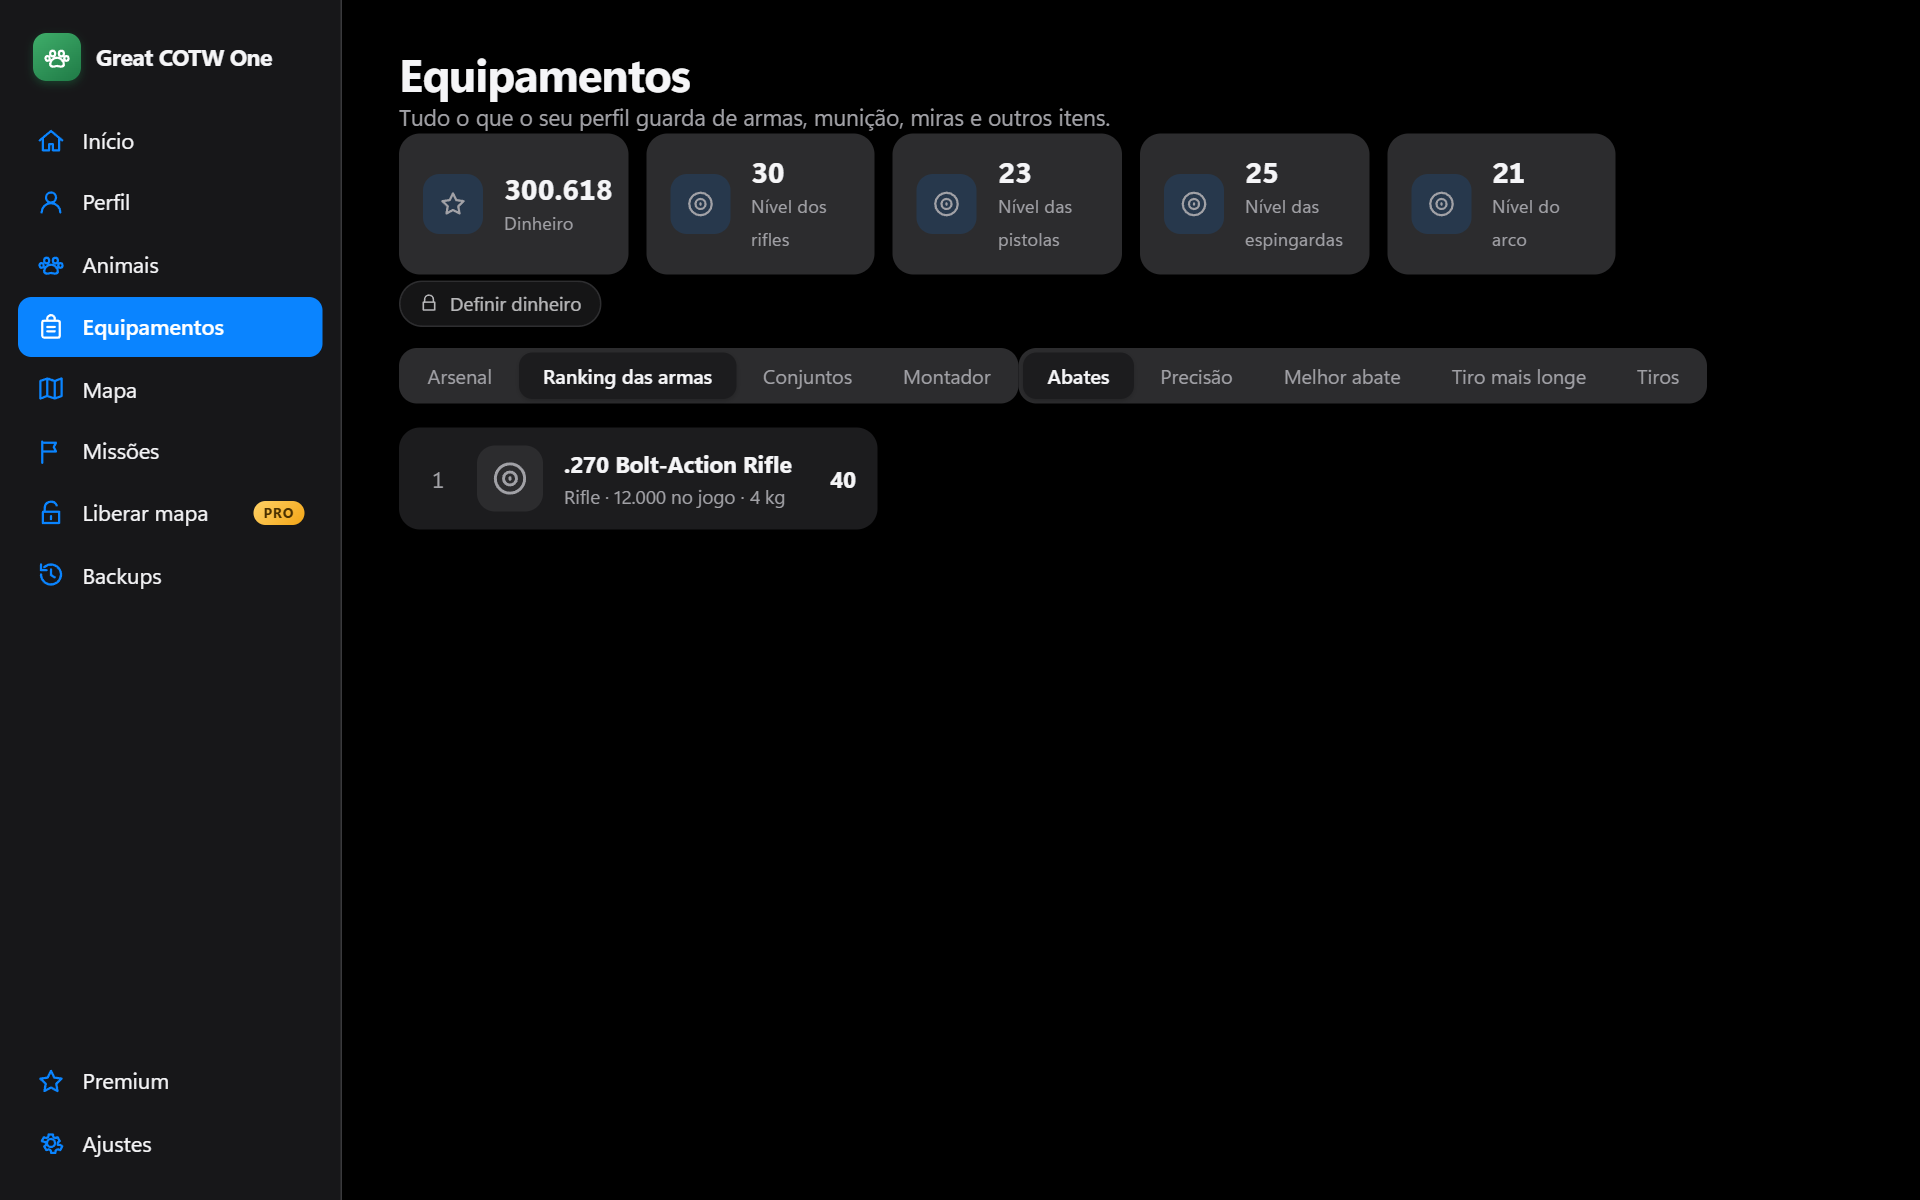
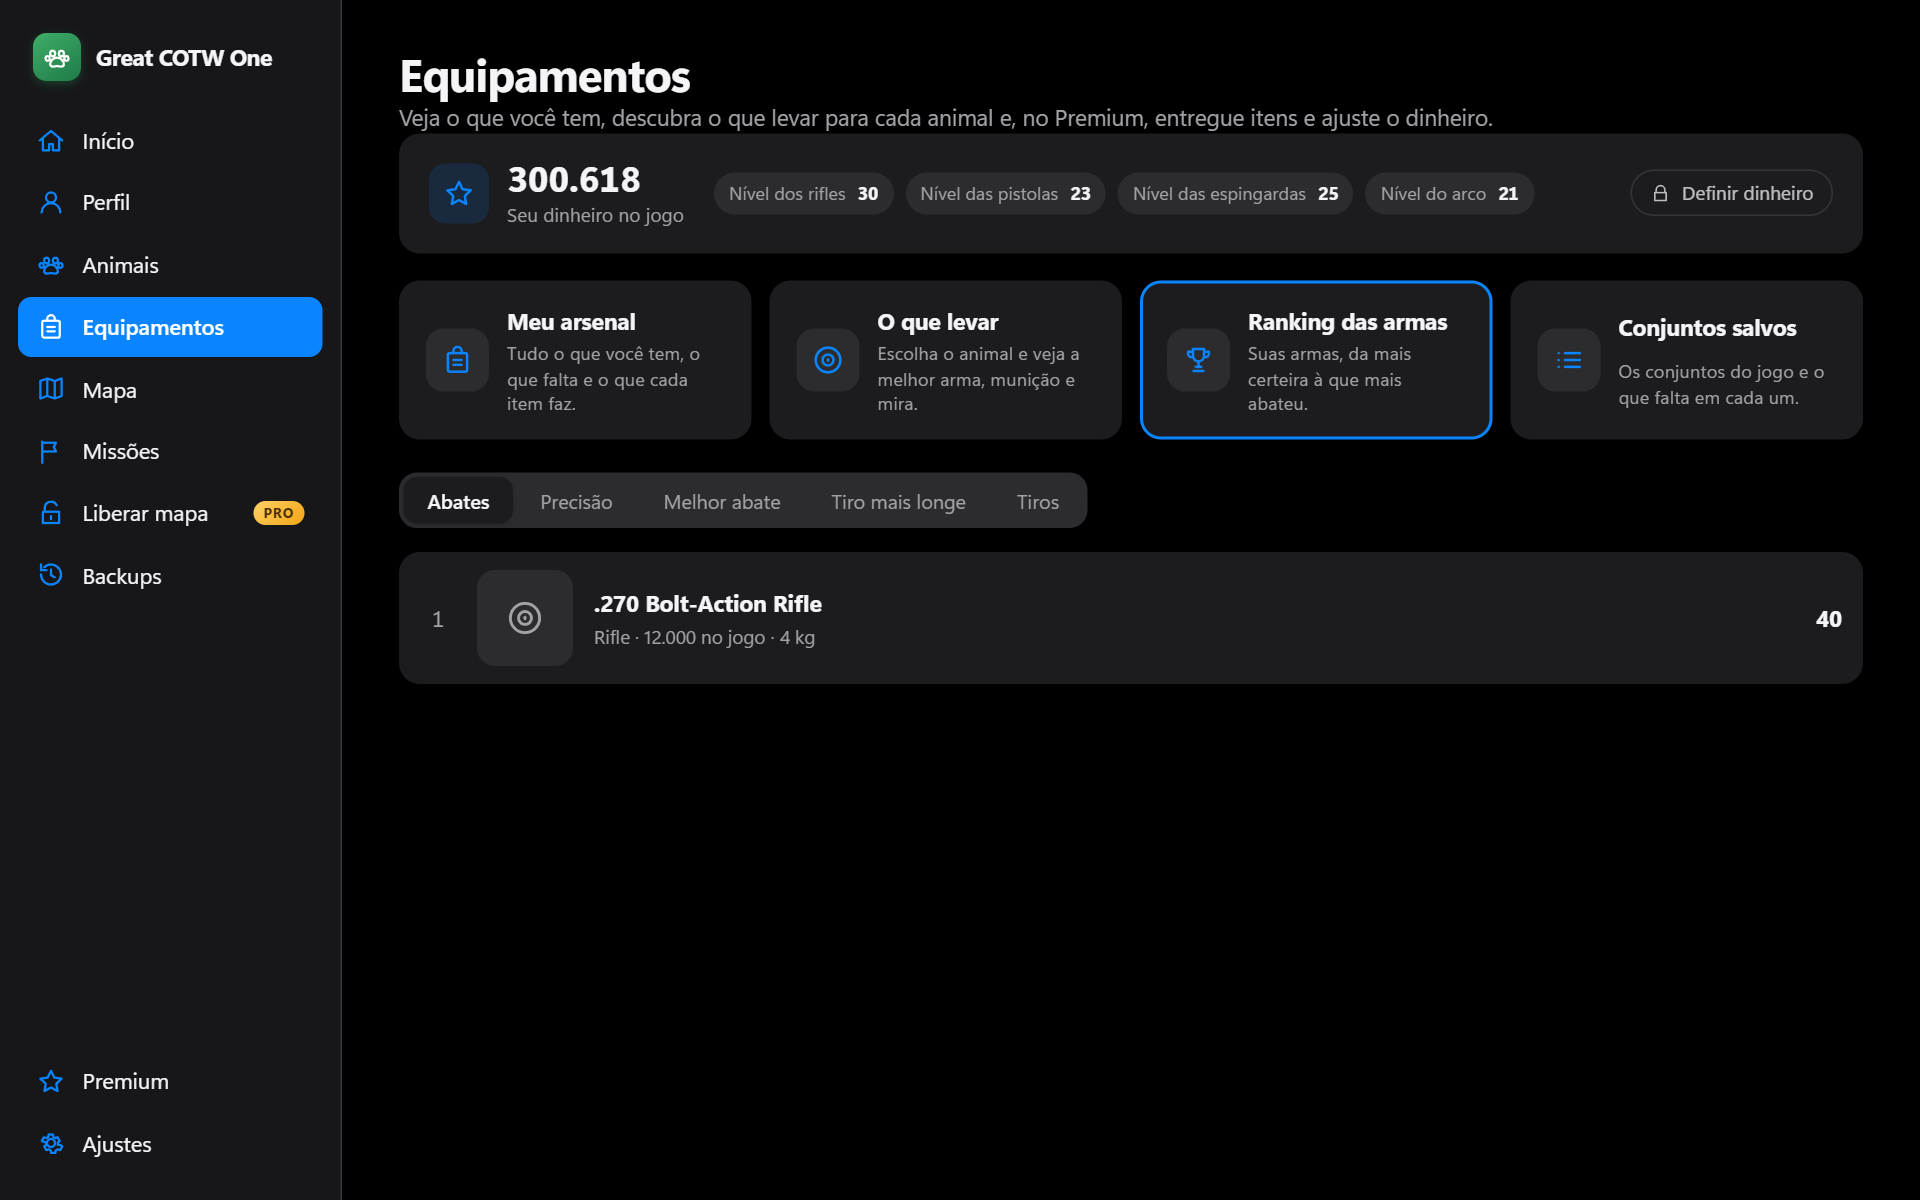
Prints novos: versão em inglês com os prints em inglês e a tela de equipamentos atual (o que levar e kit da reserva)

Changed region(s): [[0.1875, 0.0925, 0.9688, 0.5858]]

diff --git a/en/index.html b/en/index.html
@@ -46,20 +46,20 @@
     <a class="btn ghost" href="#features">See how it works</a>
   </div>
   <ul class="trust"><li><svg viewBox="0 0 20 20" aria-hidden="true"><path d="M4 10.5l4 4 8-9" fill="none" stroke="currentColor" stroke-width="2.4" stroke-linecap="round" stroke-linejoin="round"/></svg>Backup before every write</li><li><svg viewBox="0 0 20 20" aria-hidden="true"><path d="M4 10.5l4 4 8-9" fill="none" stroke="currentColor" stroke-width="2.4" stroke-linecap="round" stroke-linejoin="round"/></svg>Never writes with the game open</li><li><svg viewBox="0 0 20 20" aria-hidden="true"><path d="M4 10.5l4 4 8-9" fill="none" stroke="currentColor" stroke-width="2.4" stroke-linecap="round" stroke-linejoin="round"/></svg>No game files inside the app</li><li><svg viewBox="0 0 20 20" aria-hidden="true"><path d="M4 10.5l4 4 8-9" fill="none" stroke="currentColor" stroke-width="2.4" stroke-linecap="round" stroke-linejoin="round"/></svg>Works offline</li></ul>
-  <figure class="hero-shot"><img src="../assets/img/mapa.png" alt="Great COTW One zone map showing the route of an animal group" width="1920" height="1200" fetchpriority="high"></figure>
+  <figure class="hero-shot"><img src="../assets/img/en/mapa.png" alt="Great COTW One zone map showing the route of an animal group" width="1920" height="1200" fetchpriority="high"></figure>
 </section>
 
 <section id="features" class="block">
   <h2>Everything the game does not show you</h2>
   <p class="sub">The app reads your save and your game install and turns it all into simple screens.</p>
-  <article class="feat"><div class="feat-text"><h3>Zone map and group tracker</h3><p>See where animals eat, drink and rest, on the game&#x27;s own map. Pick a group and the app draws the day&#x27;s route with the time of every stop and where it should be right now.</p></div><figure class="shot"><img src="../assets/img/mapa.png" alt="Zone map with a group route" width="1920" height="1200" loading="lazy" decoding="async"></figure></article><article class="feat flip"><div class="feat-text"><h3>Animal wiki</h3><p>Every reserve and species, where each animal lives, how many you have in your save (males, females, Great Ones, top weight and score) and your best harvests.</p></div><figure class="shot"><img src="../assets/img/animais.png" alt="Animal wiki with a species sheet" width="1920" height="1200" loading="lazy" decoding="async"></figure></article><article class="feat"><div class="feat-text"><h3>Profile and achievements</h3><p>Level, kills, accuracy, longest shot, trophies and Steam achievements, with filter and search.</p></div><figure class="shot"><img src="../assets/img/perfil.png" alt="Hunter profile with achievements" width="1920" height="1200" loading="lazy" decoding="async"></figure></article><article class="feat flip"><div class="feat-text"><h3>Missions per reserve</h3><p>How much is left in each reserve, what is in progress and the mission list with the game&#x27;s own text.</p></div><figure class="shot"><img src="../assets/img/missoes.png" alt="Missions per reserve" width="1920" height="1200" loading="lazy" decoding="async"></figure></article>
+  <article class="feat"><div class="feat-text"><h3>Zone map and group tracker</h3><p>See where animals eat, drink and rest, on the game&#x27;s own map. Pick a group and the app draws the day&#x27;s route with the time of every stop and where it should be right now.</p></div><figure class="shot"><img src="../assets/img/en/mapa.png" alt="Zone map with a group route" width="1920" height="1200" loading="lazy" decoding="async"></figure></article><article class="feat flip"><div class="feat-text"><h3>Animal wiki</h3><p>Every reserve and species, where each animal lives, how many you have in your save (males, females, Great Ones, top weight and score) and your best harvests.</p></div><figure class="shot"><img src="../assets/img/en/animais.png" alt="Animal wiki with a species sheet" width="1920" height="1200" loading="lazy" decoding="async"></figure></article><article class="feat"><div class="feat-text"><h3>Profile and achievements</h3><p>Level, kills, accuracy, longest shot, trophies and Steam achievements, with filter and search.</p></div><figure class="shot"><img src="../assets/img/en/perfil.png" alt="Hunter profile with achievements" width="1920" height="1200" loading="lazy" decoding="async"></figure></article><article class="feat flip"><div class="feat-text"><h3>Missions per reserve</h3><p>How much is left in each reserve, what is in progress and the mission list with the game&#x27;s own text.</p></div><figure class="shot"><img src="../assets/img/en/missoes.png" alt="Missions per reserve" width="1920" height="1200" loading="lazy" decoding="async"></figure></article>
 </section>
 
 <section id="gear" class="block alt">
   <h2>The right gear for every hunt</h2>
   <p class="sub">The Equipment page shows everything your profile holds and answers every hunter's question: <em>what do I bring for this animal?</em></p>
   <ul class="points"><li><h3>Full arsenal</h3><p>Weapons, ammo, sights, lures and field gear with icons from your own game, what you own, what is missing and the level that unlocks each item.</p></li><li><h3>Weapon sheet and ranking</h3><p>Shots, hits, accuracy, kills, one-shot kills, record and longest shot for each weapon. Sort by kills, accuracy or record.</p></li><li><h3>Loadout builder per animal</h3><p>Pick the reserve and the animal. The app uses the animal&#x27;s hunting class and the classes each ammo recommends in the game itself, and suggests the best from your arsenal plus what is worth buying.</p></li><li><h3>Saved loadouts</h3><p>See your loadouts, which one is active and what items are missing in each.</p></li></ul>
-  <div class="shots"><figure class="shot"><img src="../assets/img/equipamentos-advisor.png" alt="Loadout builder for the moose with weapon, ammo and scope" width="1920" height="1200" loading="lazy" decoding="async"></figure><figure class="shot"><img src="../assets/img/equipamentos-ranking.png" alt="Personal weapon ranking" width="1920" height="1200" loading="lazy" decoding="async"></figure></div>
+  <div class="shots"><figure class="shot"><img src="../assets/img/en/equipamentos-advisor.png" alt="What to bring for the moose: weapon, ammo and scope" width="1920" height="1200" loading="lazy" decoding="async"></figure><figure class="shot"><img src="../assets/img/en/equipamentos-kit.png" alt="Whole-reserve kit with lures, extras and total weight" width="1920" height="1200" loading="lazy" decoding="async"></figure></div>
   <p class="note">Screens use sample data. In the app you see your own arsenal and your game&#x27;s icons.</p>
 </section>
 

diff --git a/index.html b/index.html
@@ -59,7 +59,7 @@
   <h2>Equipamento certo para cada caça</h2>
   <p class="sub">A página de Equipamentos mostra tudo o que o seu perfil guarda e responde a pergunta de todo caçador: <em>o que eu levo para esse animal?</em></p>
   <ul class="points"><li><h3>Arsenal completo</h3><p>Armas, munição, miras, iscas e equipamentos de campo com ícone do seu jogo, o que você tem, o que falta e o nível que libera cada item.</p></li><li><h3>Ficha e ranking das armas</h3><p>Tiros, acertos, precisão, abates, abates de um tiro, recorde e tiro mais longe de cada arma. Ordene por abates, precisão ou recorde.</p></li><li><h3>Montador por animal</h3><p>Escolha a reserva e o animal. O app usa a classe de caça do animal e as classes que cada munição recomenda no próprio jogo e sugere o melhor do seu arsenal, mais o que vale comprar.</p></li><li><h3>Conjuntos salvos</h3><p>Veja os seus loadouts, qual está ativo e quais itens faltam em cada um.</p></li></ul>
-  <div class="shots"><figure class="shot"><img src="assets/img/equipamentos-advisor.png" alt="Montador de equipamento para o alce, com arma, munição e mira" width="1920" height="1200" loading="lazy" decoding="async"></figure><figure class="shot"><img src="assets/img/equipamentos-ranking.png" alt="Ranking pessoal das armas" width="1920" height="1200" loading="lazy" decoding="async"></figure></div>
+  <div class="shots"><figure class="shot"><img src="assets/img/equipamentos-advisor.png" alt="O que levar para o alce: arma, munição e mira" width="1920" height="1200" loading="lazy" decoding="async"></figure><figure class="shot"><img src="assets/img/equipamentos-kit.png" alt="Kit para a reserva inteira com iscas, extras e peso total" width="1920" height="1200" loading="lazy" decoding="async"></figure></div>
   <p class="note">As telas usam dados de exemplo. No app você vê o seu arsenal e os ícones do seu jogo.</p>
 </section>
 

diff --git a/build.py b/build.py
@@ -56,7 +56,7 @@ T = {
             ("Montador por animal", "Escolha a reserva e o animal. O app usa a classe de caça do animal e as classes que cada munição recomenda no próprio jogo e sugere o melhor do seu arsenal, mais o que vale comprar."),
             ("Conjuntos salvos", "Veja os seus loadouts, qual está ativo e quais itens faltam em cada um."),
         ],
-        "eq_shots": [("equipamentos-advisor", "Montador de equipamento para o alce, com arma, munição e mira"), ("equipamentos-ranking", "Ranking pessoal das armas")],
+        "eq_shots": [("equipamentos-advisor", "O que levar para o alce: arma, munição e mira"), ("equipamentos-kit", "Kit para a reserva inteira com iscas, extras e peso total")],
         "eq_note": "As telas usam dados de exemplo. No app você vê o seu arsenal e os ícones do seu jogo.",
         "safe_h": "Seguro por design",
         "safe_sub": "Mexer em save dá medo. Por isso cada regra abaixo é testada e vale para tudo o que o app grava.",
@@ -134,7 +134,7 @@ T = {
             ("Loadout builder per animal", "Pick the reserve and the animal. The app uses the animal's hunting class and the classes each ammo recommends in the game itself, and suggests the best from your arsenal plus what is worth buying."),
             ("Saved loadouts", "See your loadouts, which one is active and what items are missing in each."),
         ],
-        "eq_shots": [("equipamentos-advisor", "Loadout builder for the moose with weapon, ammo and scope"), ("equipamentos-ranking", "Personal weapon ranking")],
+        "eq_shots": [("equipamentos-advisor", "What to bring for the moose: weapon, ammo and scope"), ("equipamentos-kit", "Whole-reserve kit with lures, extras and total weight")],
         "eq_note": "Screens use sample data. In the app you see your own arsenal and your game's icons.",
         "safe_h": "Safe by design",
         "safe_sub": "Touching a save is scary. So every rule below is tested and applies to everything the app writes.",
@@ -201,6 +201,7 @@ def img(base: str, name: str, alt: str, eager: bool = False, w: int = 1920, h: i
 def page(code: str) -> str:
     t = T[code]
     base = "" if code == "pt" else "../"
+    prefix = "" if code == "pt" else "en/"  # prints no idioma da página
     url = SITE + t["path"]
     other_url = SITE + ("/en/" if code == "pt" else "/")
     ids = [n[0][1:] for n in t["nav"]]
@@ -235,9 +236,9 @@ def page(code: str) -> str:
     feats = ""
     for i, (shot, title, text, alt) in enumerate(t["features"]):
         flip = " flip" if i % 2 else ""
-        feats += f'<article class="feat{flip}"><div class="feat-text"><h3>{e(title)}</h3><p>{e(text)}</p></div><figure class="shot">{img(base, shot, alt)}</figure></article>'
+        feats += f'<article class="feat{flip}"><div class="feat-text"><h3>{e(title)}</h3><p>{e(text)}</p></div><figure class="shot">{img(base, prefix + shot, alt)}</figure></article>'
     points = "".join(f"<li><h3>{e(a)}</h3><p>{e(b)}</p></li>" for a, b in t["eq_points"])
-    shots = "".join(f'<figure class="shot">{img(base, s, a)}</figure>' for s, a in t["eq_shots"])
+    shots = "".join(f'<figure class="shot">{img(base, prefix + s, a)}</figure>' for s, a in t["eq_shots"])
     safe = "".join(f"<li>{CHECK}<div><h3>{e(a)}</h3><p>{e(b)}</p></div></li>" for a, b in t["safe"])
     rows = "".join(
         f'<tr><th scope="row">{e(n)}</th><td>{CHECK if f else DASH}</td><td>{CHECK if p else DASH}</td></tr>' for n, f, p in t["rows"]
@@ -292,7 +293,7 @@ def page(code: str) -> str:
     <a class="btn ghost" href="#{ids[0]}">{e(t['cta2'])}</a>
   </div>
   <ul class="trust">{trust}</ul>
-  <figure class="hero-shot">{img(base, 'mapa', t['hero_alt'], eager=True)}</figure>
+  <figure class="hero-shot">{img(base, prefix + 'mapa', t['hero_alt'], eager=True)}</figure>
 </section>
 
 <section id="{ids[0]}" class="block">
